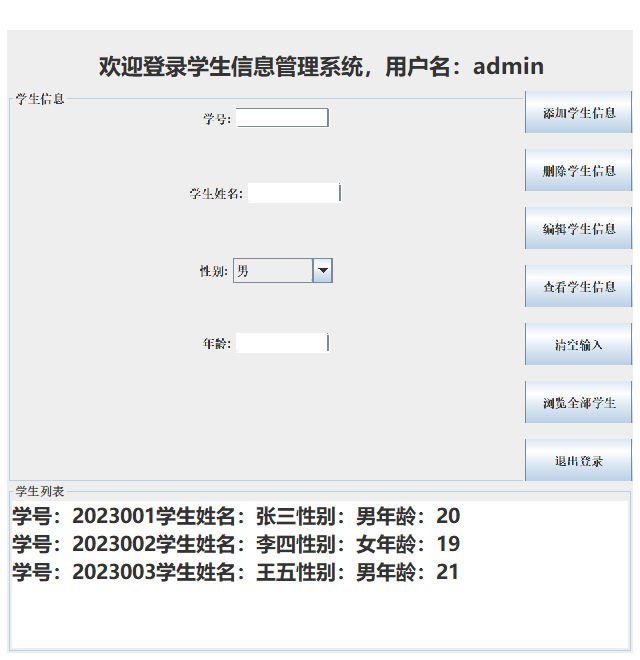
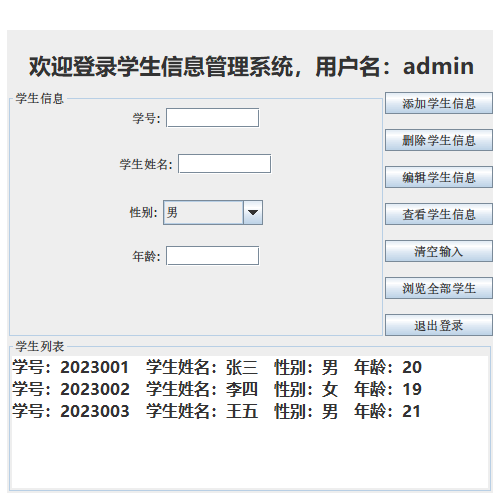
fix: adjust student list layout and text spacing

diff --git a/src/Main.java b/src/Main.java
@@ -57,7 +57,7 @@ class Student{
 
     @Override
     public String toString() {
-        return "学号："+id+"学生姓名："+name+"性别："+sex+"年龄："+age;
+        return "学号：" + id + "　学生姓名：" + name + "　性别：" + sex + "　年龄：" + age;
     }
 }
 
@@ -282,7 +282,8 @@ public class Main {
 
         JTextArea studentArea=new JTextArea();
         studentArea.setEditable(false);
-        studentArea.setFont(new Font("微软雅黑",Font.BOLD,20));
+        studentArea.setFont(new Font("微软雅黑",Font.BOLD,16));
+        studentArea.setRows(6);
 
         JScrollPane scrollPane = new JScrollPane(studentArea);
         scrollPane.setBorder(BorderFactory.createTitledBorder("学生列表"));
